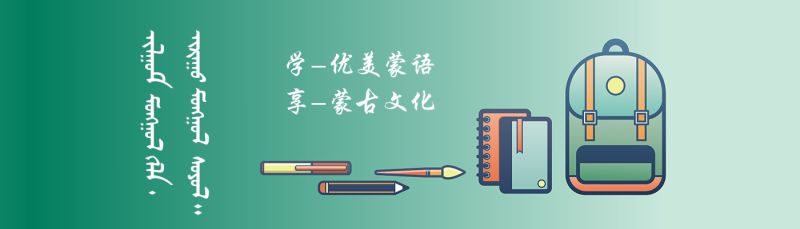
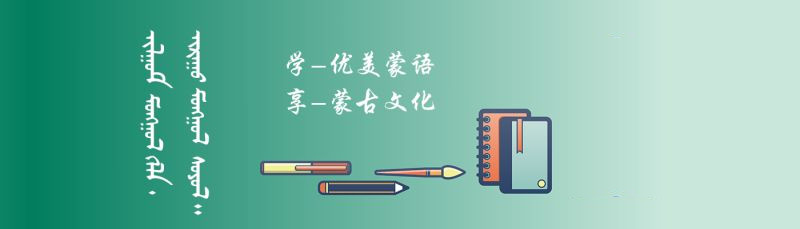
some web modify

Changed region(s): [[0.6875, 0.1528, 0.8438, 0.8559]]

diff --git a/app/introduction.html b/app/introduction.html
@@ -1,159 +1,165 @@
 <!DOCTYPE html>
 <html lang="en">
-    <head>
-        <meta charset="UTF-8">
-        <title>随心蒙古语</title>
-            
-        <link href="styles/main.css" type="text/css" rel="stylesheet" media="screen,projection"/>
-        <link href="styles/index.css" type="text/css" rel="stylesheet" media="screen,projection"/>
-        <link href="styles/public_pc.css" type="text/css" rel="stylesheet" media="screen,projection"/>
-        <link href="styles/xq.css" type="text/css" rel="stylesheet" media="screen,projection"/>
-        
-        <script type="text/javascript" src="bower_components/jquery/dist/jquery.min.js"></script>
 
-        <script type="text/javascript">
-            function huanbeijingtu(obj){
-                var src_old=$(obj).attr('src');
-                var dian=src_old.indexOf('.');
-                src_old=src_old.substr(0,dian);
-                $(obj).attr('src',src_old+"01.png");
-            }
-            function huanbeijingtu1(obj){
-                var src_old=$(obj).attr('src');
-                var dian=src_old.indexOf('.');
-                src_old=src_old.substr(0,dian-2);
-                $(obj).attr('src',src_old+".png");
-            }
-        </script>
-    </head>
-    <body>
-        <!-- 头部开始 -->
-        <!-- 头部结束 -->
+<head>
+    <meta charset="UTF-8">
+    <title>随心蒙古语</title>
 
-        <!-- banner开始 -->
-        <div id="top" class="banner">
-            <img src="images/banner.png" alt="">
-        </div>
-        <!-- banner结束 -->
+    <link href="styles/main.css" type="text/css" rel="stylesheet" media="screen,projection" />
+    <link href="styles/index.css" type="text/css" rel="stylesheet" media="screen,projection" />
+    <link href="styles/public_pc.css" type="text/css" rel="stylesheet" media="screen,projection" />
+    <link href="styles/xq.css" type="text/css" rel="stylesheet" media="screen,projection" />
 
-        <!-- nav开始 -->
-        <div class="nav">
-            <div class="nav_nr aqt_jz">
-                <a href="#mongol">蒙古语</a>
-                <a href="#system">随心蒙古语</a>
-                <a href="indexB.html">开始学习</a>
-            </div>
-            <div class="clear"></div>
+    <script type="text/javascript" src="bower_components/jquery/dist/jquery.min.js"></script>
+
+    <script type="text/javascript">
+        function huanbeijingtu(obj) {
+            var src_old = $(obj).attr('src');
+            var dian = src_old.indexOf('.');
+            src_old = src_old.substr(0, dian);
+            $(obj).attr('src', src_old + "01.png");
+        }
+        function huanbeijingtu1(obj) {
+            var src_old = $(obj).attr('src');
+            var dian = src_old.indexOf('.');
+            src_old = src_old.substr(0, dian - 2);
+            $(obj).attr('src', src_old + ".png");
+        }
+    </script>
+</head>
+
+<body>
+    <!-- 头部开始 -->
+    <!-- 头部结束 -->
+
+    <!-- banner开始 -->
+    <div class="banner">
+        <div class="leftBack"></div>
+        <div class="rightBack"></div>
+        <img src="images/bannerBack.jpg" alt="">
+    </div>
+    <!-- banner结束 -->
+
+    <!-- nav开始 -->
+    <div class="nav">
+        <div class="nav_nr aqt_jz">
+            <a href="#mongol">蒙古语</a>
+            <a href="#system">随心蒙古语</a>
+            <a href="learn.html">开始学习</a>
         </div>
         <div class="clear"></div>
-        <!-- nav结束 -->
+    </div>
+    <div class="clear"></div>
+    <!-- nav结束 -->
 
-        <!-- 蒙古语开始 -->
-        <!-- 中部开始 -->
-        <div id="aqt_mid" class="aqt_jz">
-            <div class="mid01">
-                <div class="mid01_top">
-                    <div class="top_you fr">
-                        <div class="gywm">
-                            <div class="gywm_tubiao"></div>
-                            <div id="mongol" class="bt1 b18">蒙古语</div>
-                        </div>
-                        <!-- 内容截取 -->
-                        <div class="nr f16">
-                            <p>
+    <!-- 蒙古语开始 -->
+    <!-- 中部开始 -->
+    <div id="aqt_mid" class="aqt_jz">
+        <div class="mid01">
+            <div class="mid01_top">
+                <div class="top_you fr">
+                    <div class="gywm">
+                        <div class="gywm_tubiao"></div>
+                        <div id="mongol" class="bt1 b18">蒙古语</div>
+                    </div>
+                    <!-- 内容截取 -->
+                    <div class="nr f16">
+                        <p>
                             现在蒙古语分为新蒙古语和传统蒙古语两种。蒙古国主要使用新蒙古语，上世纪出创建。中国的内蒙古自治区主要使用传统蒙古语，创建至今已800多年。
                             <div class="mongolExample"><img src="images/mongol.jpg" alt=""></div>
                             <p>此平台教授传统蒙古文，上面例图为传统蒙古语的手写样式，平台所有蒙古语内容都将以此手写体为标准显示。
-                            <p>蒙古语（蒙文：ᠮᠣᠩᠭᠣᠯ ᠬᠡᠯᠡ，西里尔：монгол хэл）属阿尔泰语系蒙古语族，主要用者在中国蒙古族聚居区、蒙古国和俄罗斯联邦西伯利亚联邦管区。
-                            <p>蒙古国现在使用的蒙古语因在二十世纪五六十年代受前苏联影响主要使用西里尔字母拼写，俄罗斯的卡尔梅克语、布里亚特语被视为蒙古语的方言[1]。
-                            <p>中国蒙古语的使用因环境影响和对语言结构要求严谨，造成现在大部分年青蒙古族渐渐不再使用母语交流，传承受到严重影响。
-                            <p>语法是黏着语的蒙古语在语音方面有严格的元音和谐律，即按照元音舌位前后或圆唇不圆唇进行和谐，如在一个词里，要么都是后元音（阳性元音），要么都是中元音（阴性元音）。但是前元音（中性元音）与后元音或中元音均可出如今同一个词里。在形态学方面以词根或词干为基础，后接附加成分派生新词和进行词形变化；名词、代词、形容词、数词、副词、后置词和形动词，都有人称、数或格的语法范畴；动词都有时、体、态、式等语法范畴。在结构学方面，句里语序有一定的规律。通常主语在前，谓语在后，修饰语在被修饰语之前，谓语在宾语之后。蒙古语大约产生于9～10世纪，语言学家认为与中古的契丹语相似，达斡尔语、保安语等语言同蒙语有亲缘关系；有很多方言，主要分为中部方言、西部方言（卫拉特语）、北部方言（布里亚特语）和东部方言（科尔沁-喀喇沁）。
-                        </div>
-                        <div class="ljgd aqt_textC"><a href="#top">返回顶部</a></div>
+                                <p>蒙古语（蒙文：ᠮᠣᠩᠭᠣᠯ ᠬᠡᠯᠡ，西里尔：монгол хэл）属阿尔泰语系蒙古语族，主要用者在中国蒙古族聚居区、蒙古国和俄罗斯联邦西伯利亚联邦管区。
+                                    <p>蒙古国现在使用的蒙古语因在二十世纪五六十年代受前苏联影响主要使用西里尔字母拼写，俄罗斯的卡尔梅克语、布里亚特语被视为蒙古语的方言[1]。
+                                        <p>中国蒙古语的使用因环境影响和对语言结构要求严谨，造成现在大部分年青蒙古族渐渐不再使用母语交流，传承受到严重影响。
+                                            <p>语法是黏着语的蒙古语在语音方面有严格的元音和谐律，即按照元音舌位前后或圆唇不圆唇进行和谐，如在一个词里，要么都是后元音（阳性元音），要么都是中元音（阴性元音）。但是前元音（中性元音）与后元音或中元音均可出如今同一个词里。在形态学方面以词根或词干为基础，后接附加成分派生新词和进行词形变化；名词、代词、形容词、数词、副词、后置词和形动词，都有人称、数或格的语法范畴；动词都有时、体、态、式等语法范畴。在结构学方面，句里语序有一定的规律。通常主语在前，谓语在后，修饰语在被修饰语之前，谓语在宾语之后。蒙古语大约产生于9～10世纪，语言学家认为与中古的契丹语相似，达斡尔语、保安语等语言同蒙语有亲缘关系；有很多方言，主要分为中部方言、西部方言（卫拉特语）、北部方言（布里亚特语）和东部方言（科尔沁-喀喇沁）。
                     </div>
-                    <div class="clear"></div>
+                    <div class="ljgd aqt_textC"><a href="#top">返回顶部</a></div>
                 </div>
                 <div class="clear"></div>
             </div>
+            <div class="clear"></div>
         </div>
+    </div>
 
-        <div id="aqt_mid" class="aqt_jz">
-            <div class="mid01">
-                <div class="mid01_top">
-                    <div class="top_you fr">
-                        <div class="gywm">
-                            <div class="gywm_tubiao"></div>
-                            <div id="system" class="bt1 b18">随心蒙古语</div>
-                        </div>
-                        <!-- 内容截取 -->
-                        <div class="nr f16">
-                            <p>《随心蒙古语》传统蒙古语学习平台是一个由“内蒙古民族事务委员会”选题、“内蒙古阿儿含只文化有限责任公司”承编的网络教程。
+    <div id="aqt_mid" class="aqt_jz">
+        <div class="mid01">
+            <div class="mid01_top">
+                <div class="top_you fr">
+                    <div class="gywm">
+                        <div class="gywm_tubiao"></div>
+                        <div id="system" class="bt1 b18">随心蒙古语</div>
+                    </div>
+                    <!-- 内容截取 -->
+                    <div class="nr f16">
+                        <p>《随心蒙古语》传统蒙古语学习平台是一个由“内蒙古民族事务委员会”选题、“内蒙古阿儿含只文化有限责任公司”承编的网络教程。
                             <div class="mongolExample">
-                                &nbsp;<p>
-                                <img src="images/minwei.png" alt="">
-                                &nbsp;<p>
-                                <img src="images/argamji.jpg" alt="">
+                                &nbsp;
+                                <p>
+                                    <img src="images/minwei.png" alt=""> &nbsp;
+                                    <p>
+                                        <img src="images/argamji.jpg" alt="">
                             </div>
                             <p>《随心蒙古语》是按《使用蒙古语文资格考试标准》编写的，所以本教程也可以当做使用蒙古语文资格考试辅导班的一种教材。
-                            <p>上面例图为传统蒙古语的手写样式，我们平台所有蒙古语内容都将以此手写体为标准显示。
-                            <p>蒙古语（蒙文：ᠮᠣᠩᠭᠣᠯ ᠬᠡᠯᠡ，西里尔：монгол хэл）属阿尔泰语系蒙古语族，主要用者在中国蒙古族聚居区、蒙古国和俄罗斯联邦西伯利亚联邦管区。
-                            <p>蒙古国现在使用的蒙古语因在二十世纪五六十年代受前苏联影响主要使用西里尔字母拼写，俄罗斯的卡尔梅克语、布里亚特语被视为蒙古语的方言[1]。
-                            <p>中国蒙古语的使用因环境影响和对语言结构要求严谨，造成现在大部分年青蒙古族渐渐不再使用母语交流，传承受到严重影响。
-                            <p>语法是黏着语的蒙古语在语音方面有严格的元音和谐律，即按照元音舌位前后或圆唇不圆唇进行和谐，如在一个词里，要么都是后元音（阳性元音），要么都是中元音（阴性元音）。但是前元音（中性元音）与后元音或中元音均可出如今同一个词里。在形态学方面以词根或词干为基础，后接附加成分派生新词和进行词形变化；名词、代词、形容词、数词、副词、后置词和形动词，都有人称、数或格的语法范畴；动词都有时、体、态、式等语法范畴。在结构学方面，句里语序有一定的规律。通常主语在前，谓语在后，修饰语在被修饰语之前，谓语在宾语之后。蒙古语大约产生于9～10世纪，语言学家认为与中古的契丹语相似，达斡尔语、保安语等语言同蒙语有亲缘关系；有很多方言，主要分为中部方言、西部方言（卫拉特语）、北部方言（布里亚特语）和东部方言（科尔沁-喀喇沁）。
-                        </div>
-                        <div class="ljgd aqt_textC"><a href="#top">返回顶部</a></div>
+                                <p>上面例图为传统蒙古语的手写样式，我们平台所有蒙古语内容都将以此手写体为标准显示。
+                                    <p>蒙古语（蒙文：ᠮᠣᠩᠭᠣᠯ ᠬᠡᠯᠡ，西里尔：монгол хэл）属阿尔泰语系蒙古语族，主要用者在中国蒙古族聚居区、蒙古国和俄罗斯联邦西伯利亚联邦管区。
+                                        <p>蒙古国现在使用的蒙古语因在二十世纪五六十年代受前苏联影响主要使用西里尔字母拼写，俄罗斯的卡尔梅克语、布里亚特语被视为蒙古语的方言[1]。
+                                            <p>中国蒙古语的使用因环境影响和对语言结构要求严谨，造成现在大部分年青蒙古族渐渐不再使用母语交流，传承受到严重影响。
+                                                <p>语法是黏着语的蒙古语在语音方面有严格的元音和谐律，即按照元音舌位前后或圆唇不圆唇进行和谐，如在一个词里，要么都是后元音（阳性元音），要么都是中元音（阴性元音）。但是前元音（中性元音）与后元音或中元音均可出如今同一个词里。在形态学方面以词根或词干为基础，后接附加成分派生新词和进行词形变化；名词、代词、形容词、数词、副词、后置词和形动词，都有人称、数或格的语法范畴；动词都有时、体、态、式等语法范畴。在结构学方面，句里语序有一定的规律。通常主语在前，谓语在后，修饰语在被修饰语之前，谓语在宾语之后。蒙古语大约产生于9～10世纪，语言学家认为与中古的契丹语相似，达斡尔语、保安语等语言同蒙语有亲缘关系；有很多方言，主要分为中部方言、西部方言（卫拉特语）、北部方言（布里亚特语）和东部方言（科尔沁-喀喇沁）。
                     </div>
-                    <div class="clear"></div>
+                    <div class="ljgd aqt_textC"><a href="#top">返回顶部</a></div>
                 </div>
                 <div class="clear"></div>
             </div>
+            <div class="clear"></div>
         </div>
-        <!-- 蒙古语结束 -->
+    </div>
+    <!-- 蒙古语结束 -->
 
-        <!-- 底部开始 -->
-        <div id="footer">
-            <div class="footer_nr aqt_jz">
-                <div class="f_zuo fl">
-                    <p>我们立志于创建面向全世界的“传统蒙古语”免费学习网站。</p>
-                    <p>此蒙古语教育网站使用中国国家专款由“内蒙古自治区民族事务委员会”组织建设。</p>
+    <!-- 底部开始 -->
+    <div id="footer">
+        <div class="footer_nr aqt_jz">
+            <div class="f_zuo fl">
+                <p>我们立志于创建面向全世界的“传统蒙古语”免费学习网站。</p>
+                <p>此蒙古语教育网站使用中国国家专款由“内蒙古自治区民族事务委员会”组织建设。</p>
+            </div>
+            <div class="f_you fr">
+                <div class="f_public_nr gywm01">
+                    <p class="f_title b20">关于我们</p>
+                    <ul class="f_nr f14">
+                        <li><a href="">新闻</a></li>
+                        <li><a href="">影响力</a></li>
+                        <li><a href="">我们的团队</a></li>
+                        <li><a href="">我们的实习生</a></li>
+                        <li><a href="">我们的领导力</a></li>
+                        <li><a href="">我们的支持者</a></li>
+                        <li><a href="">工作机会</a></li>
+                        <li><a href="">实习机会</a></li>
+                    </ul>
                 </div>
-                <div class="f_you fr">
-                    <div class="f_public_nr gywm01">
-                        <p class="f_title b20">关于我们</p>
-                        <ul class="f_nr f14">
-                            <li><a href="">新闻</a></li>
-                            <li><a href="">影响力</a></li>
-                            <li><a href="">我们的团队</a></li>
-                            <li><a href="">我们的实习生</a></li>
-                            <li><a href="">我们的领导力</a></li>
-                            <li><a href="">我们的支持者</a></li>
-                            <li><a href="">工作机会</a></li>
-                            <li><a href="">实习机会</a></li>
-                        </ul>
-                    </div>
-                    <div class="f_public_nr lxfs">
-                        <p class="f_title b20">联系方式</p>
-                        <ul class="f_nr f14">
-                            <li><a href="">帮助中心</a></li>
-                            <li><a href="">支持社区</a></li>
-                            <li><a href="">分享经验</a></li>
-                            <li><a href="">出版物</a></li>
-                        </ul>
-                    </div>
-                    <div class="f_public_nr mykf">
-                        <p class="f_title b20">蒙语科目</p>
-                        <ul class="f_nr f14">
-                            <li><a href="">蒙文字母</a></li>
-                            <li><a href="">蒙文单词</a></li>
-                            <li><a href="">蒙文句子</a></li>
-                            <li><a href="">蒙文回话</a></li>
-                            <li><a href="">蒙文标准音</a></li>
+                <div class="f_public_nr lxfs">
+                    <p class="f_title b20">联系方式</p>
+                    <ul class="f_nr f14">
+                        <li><a href="">帮助中心</a></li>
+                        <li><a href="">支持社区</a></li>
+                        <li><a href="">分享经验</a></li>
+                        <li><a href="">出版物</a></li>
+                    </ul>
+                </div>
+                <div class="f_public_nr mykf">
+                    <p class="f_title b20">蒙语科目</p>
+                    <ul class="f_nr f14">
+                        <li><a href="">蒙文字母</a></li>
+                        <li><a href="">蒙文单词</a></li>
+                        <li><a href="">蒙文句子</a></li>
+                        <li><a href="">蒙文回话</a></li>
+                        <li><a href="">蒙文标准音</a></li>
 
-                        </ul>
-                    </div>
+                    </ul>
                 </div>
             </div>
-            <div class="f_bottom f16 aqt_jz">&copy;2017内蒙古自治区民族事务委员会</div>
         </div>
-    </body>
+        <div class="f_bottom f16 aqt_jz">&copy;2017内蒙古自治区民族事务委员会</div>
+    </div>
+</body>
+
 </html>

diff --git a/app/index.html b/app/index.html
@@ -31,7 +31,8 @@
 
 	<!-- 头部开始 -->
 	<div id="aqt_header">
-		<div class="top"><img src="images/logo.png" alt="">
+		<div class="top">
+			<img src="images/logo.png" alt="">
 			<div class="bjtu"></div>
 		</div>
 	</div>
@@ -55,12 +56,12 @@
 	<!-- nav结束 -->
 
 	<!-- banner开始 -->
-	<div class="banner"></div>
-	<!-- banner结束 -->
-
-	<div style="width: 100%; height: 20px;">
-		<!--高度占位-->
+	<div class="banner">
+		<div class="leftBack"></div>
+		<div class="rightBack"></div>
+		<img src="images/bannerBack.jpg" alt="">
 	</div>
+	<!-- banner结束 -->
 
 	<!-- 中部开始 -->
 	<div id="aqt_mid" class="aqt_jz">
@@ -422,7 +423,7 @@
 				<div class="f_public_nr mykf">
 					<p class="f_title b20">蒙语科目</p>
 					<ul class="f_nr f14">
-						<li><a href="">蒙文字母</a></li>
+						<li><a href="learn.html#!/alphabet">蒙文字母</a></li>
 						<li><a href="">蒙文单词</a></li>
 						<li><a href="">蒙文句子</a></li>
 						<li><a href="">蒙文回话</a></li>

diff --git a/app/styles/public_pc.css b/app/styles/public_pc.css
@@ -125,6 +125,7 @@ a:focus{outline:none;}
 .nav a:hover{
 	color: #004751;
 }
+
 .banner{
 	width: 100%;
 	height: 229px;
@@ -132,9 +133,25 @@ a:focus{outline:none;}
 }
 
 .banner img{
+	position: relative;
+	top: -229px;
 	display: block;
-    text-align: center;
+	text-align: center;
+	z-index: 100;
 }
+
+.leftBack,
+.rightBack {
+	float: left;
+	width: 50%;
+	height: 229px;
+	background-color: #088162;
+}
+
+.rightBack {
+	background-color: #c9e7db;
+}
+
 /*头部结束*/
 
 /*尾部开始*/

diff --git a/app/styles/index.css b/app/styles/index.css
@@ -85,9 +85,7 @@
 }
 
 .top_you {
-    width: 550px;
-    height: 307px;
-    background: #fff;
+    width: 1003px;
 }
 
 .top_you .gywm{
